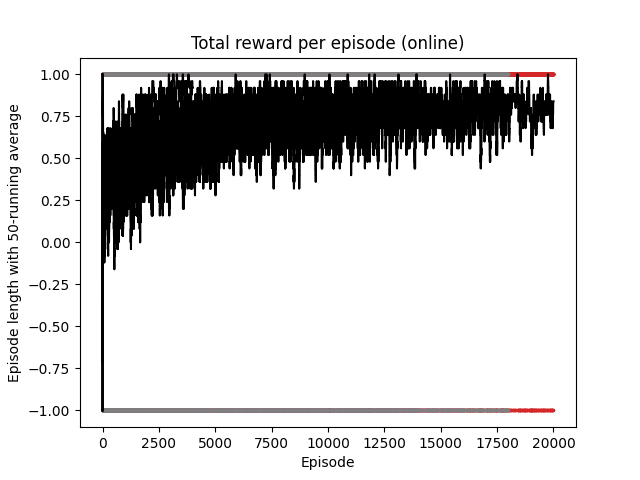
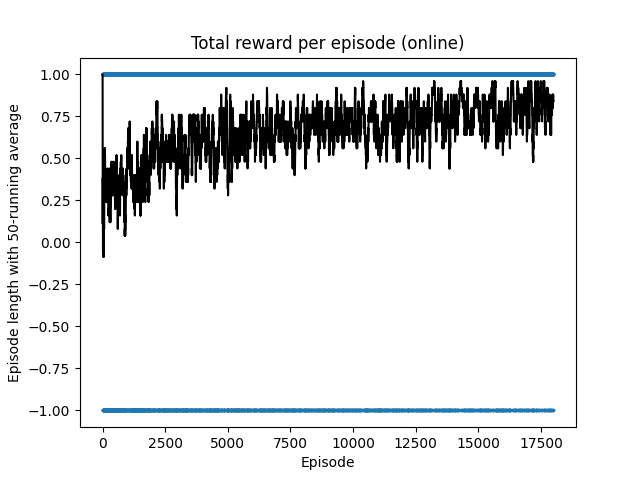
corrected reward plots

Changed region(s): [[0.1562, 0.125, 0.875, 0.875], [0.3125, 0.9062, 0.9062, 0.9375], [0.2188, 0.9062, 0.2812, 0.9375]]

diff --git a/make_plot_from_reward_list.py b/make_plot_from_reward_list.py
@@ -1,0 +1,24 @@
+from joblib import load
+from matplotlib import pyplot as plt
+
+def plot_rewards(rew, averaging_window=50, title="Total reward per episode (online)", version=1):
+        """
+        Visually represent the learning history to standard output.
+        """
+        averages = []
+        for i in range(1, len(rew) + 1):
+            lower = max(0, i - averaging_window)
+            averages.append(sum(rew[lower:i]) / (i - lower))
+        plt.xlabel("Episode")
+        plt.ylabel("Episode length with " + str(averaging_window) + "-running average")
+        plt.title(title)
+        plt.plot(averages, color="black")
+        plt.scatter(range(len(rew)), rew, s=2)
+        plt.savefig(f"v{version}_reward_hex.png")
+        plt.show()
+
+for i in range(1, 18):
+    reward = load(f'v{i}_hex_episode_rewards.a2c')
+    plot_rewards(reward, version=i)
+
+    print(len(reward))
